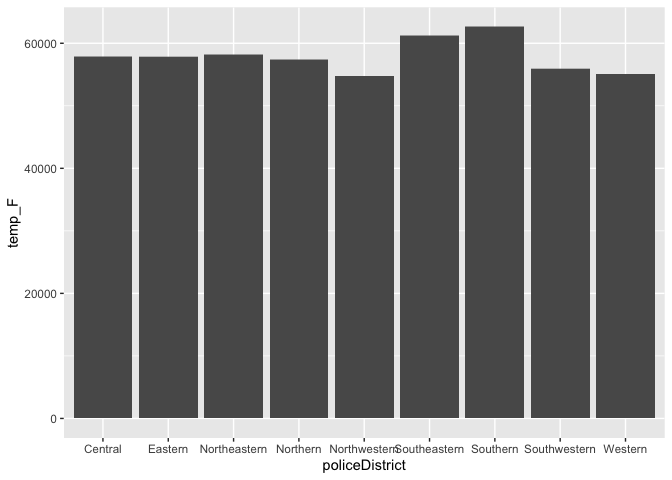
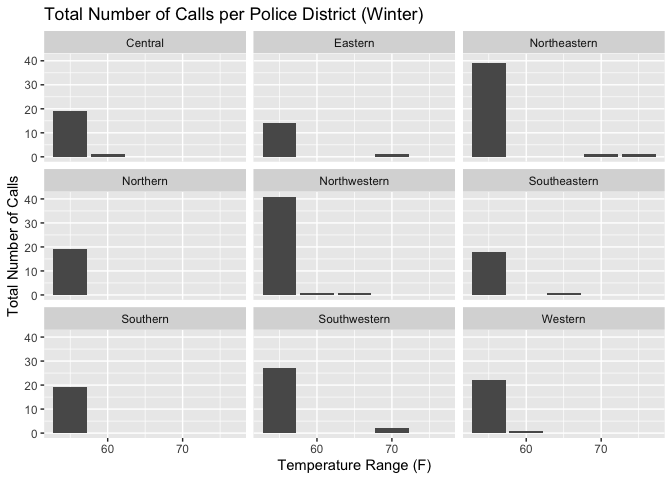
11/04/2024- Split the graph for winter and non_winter.

diff --git a/README.md b/README.md
@@ -163,22 +163,6 @@ variable under treatment and no treatment.
 # groupBy policeDistrict
 
 #----------------------------------------------------------------------------------------------
-#df2 <- df2 %>%
-  #mutate(tempCatagories = ifelse(temp_F < 60, 55,
-                          #ifelse(temp_F >= 60 & temp_F < 65, 60,
-                          #ifelse(temp_F >= 65 & temp_F < 70, 65,
-                          #ifelse(temp_F >= 70 & temp_F < 75, 70,
-                          #ifelse(temp_F >= 75 & temp_F < 80, 75,
-                          #ifelse(temp_F >= 80 & temp_F < 85, 80,
-                          #ifelse(temp_F >= 85 & temp_F < 90, 85,
-                          #ifelse(temp_F >= 90 & temp_F < 95, 90,
-                          #ifelse(temp_F >= 95 & temp_F < 100, 95, 
-                          #100))))))))))
-
-#agg_df <- df2 %>%
-  #group_by(policeDistrict, tempCatagories) %>%
-  #summarise(avg_calls = mean(callscount, na.rm = TRUE), totalcalls = sum(callscount))
-
 df2 <- df2 %>%
   mutate(tempCatagories = ifelse(temp_F < 60, 55,
                           ifelse(temp_F >= 60 & temp_F < 65, 60,
@@ -191,7 +175,13 @@ df2 <- df2 %>%
                           ifelse(temp_F >= 95 & temp_F < 100, 95, 
                           100))))))))))
 
-avg_df <- df2 %>%
+# for winter months
+df2 <- df2 %>%
+  mutate(winter_bin = ifelse(month > 2 & month < 11, 0, 1))
+         
+# for winter
+winter_df <- df2 %>%
+  filter(winter_bin == 1) %>%
   group_by(policeDistrict, tempCatagories) %>%
   summarise(avg_calls = mean(callscount, na.rm = TRUE))
 ```
@@ -200,31 +190,185 @@ avg_df <- df2 %>%
     the `.groups` argument.
 
 ``` r
-# Step 2: Create the scatter plot
-#ggplot(agg_df, aes(x = tempCatagories, y = avg_calls, color = policeDistrict)) + 
-  #geom_point(size = 2) + 
-  #geom_smooth(method = "lm", se = FALSE) +
-  #labs(title = "Average Number of Calls vs Temperature (F) by Police District",
-       #x = "Temperature Range (F)", 
-       #y = "Average Number of Calls")
+# for non winter
+non_winter_df <- df2 %>%
+  filter(winter_bin == 0) %>%
+  group_by(policeDistrict, tempCatagories) %>%
+  summarise(avg_calls = mean(callscount, na.rm = TRUE))
+```
 
-# Step 2: Create the scatter plot
-ggplot(avg_df, aes(x = tempCatagories, y = avg_calls, color = policeDistrict)) + 
+    `summarise()` has grouped output by 'policeDistrict'. You can override using
+    the `.groups` argument.
+
+``` r
+# Scatter plot -winter
+ggplot(winter_df, aes(x = tempCatagories, y = avg_calls, color = policeDistrict)) + 
   geom_point(size = 2) + 
-  geom_smooth(method = "lm", se = FALSE) +
-  labs(title = "Average Number of Calls vs Temperature (F) by Police District",
+  geom_smooth(se = FALSE) +
+  labs(title = "Average Number of Calls vs Temperature (F) by Police District (Winter)",
        x = "Temperature Range (F)", 
        y = "Average Number of Calls")
 ```
 
-    `geom_smooth()` using formula = 'y ~ x'
+    `geom_smooth()` using method = 'loess' and formula = 'y ~ x'
+
+    Warning in simpleLoess(y, x, w, span, degree = degree, parametric = parametric,
+    : span too small.  fewer data values than degrees of freedom.
+
+    Warning in simpleLoess(y, x, w, span, degree = degree, parametric = parametric,
+    : pseudoinverse used at 54.9
+
+    Warning in simpleLoess(y, x, w, span, degree = degree, parametric = parametric,
+    : neighborhood radius 10.1
+
+    Warning in simpleLoess(y, x, w, span, degree = degree, parametric = parametric,
+    : reciprocal condition number 0
+
+    Warning in simpleLoess(y, x, w, span, degree = degree, parametric = parametric,
+    : There are other near singularities as well. 102.01
+
+    Warning in simpleLoess(y, x, w, span, degree = degree, parametric = parametric,
+    : span too small.  fewer data values than degrees of freedom.
+
+    Warning in simpleLoess(y, x, w, span, degree = degree, parametric = parametric,
+    : pseudoinverse used at 54.9
+
+    Warning in simpleLoess(y, x, w, span, degree = degree, parametric = parametric,
+    : neighborhood radius 10.1
+
+    Warning in simpleLoess(y, x, w, span, degree = degree, parametric = parametric,
+    : reciprocal condition number 0
+
+    Warning in simpleLoess(y, x, w, span, degree = degree, parametric = parametric,
+    : There are other near singularities as well. 102.01
+
+    Warning in simpleLoess(y, x, w, span, degree = degree, parametric = parametric,
+    : span too small.  fewer data values than degrees of freedom.
+
+    Warning in simpleLoess(y, x, w, span, degree = degree, parametric = parametric,
+    : pseudoinverse used at 54.9
+
+    Warning in simpleLoess(y, x, w, span, degree = degree, parametric = parametric,
+    : neighborhood radius 10.1
+
+    Warning in simpleLoess(y, x, w, span, degree = degree, parametric = parametric,
+    : reciprocal condition number 0
+
+    Warning in simpleLoess(y, x, w, span, degree = degree, parametric = parametric,
+    : There are other near singularities as well. 102.01
+
+    Warning in simpleLoess(y, x, w, span, degree = degree, parametric = parametric,
+    : span too small.  fewer data values than degrees of freedom.
+
+    Warning in simpleLoess(y, x, w, span, degree = degree, parametric = parametric,
+    : pseudoinverse used at 54.9
+
+    Warning in simpleLoess(y, x, w, span, degree = degree, parametric = parametric,
+    : neighborhood radius 10.1
+
+    Warning in simpleLoess(y, x, w, span, degree = degree, parametric = parametric,
+    : reciprocal condition number 0
+
+    Warning in simpleLoess(y, x, w, span, degree = degree, parametric = parametric,
+    : There are other near singularities as well. 102.01
+
+    Warning in simpleLoess(y, x, w, span, degree = degree, parametric = parametric,
+    : span too small.  fewer data values than degrees of freedom.
+
+    Warning in simpleLoess(y, x, w, span, degree = degree, parametric = parametric,
+    : pseudoinverse used at 54.9
+
+    Warning in simpleLoess(y, x, w, span, degree = degree, parametric = parametric,
+    : neighborhood radius 10.1
+
+    Warning in simpleLoess(y, x, w, span, degree = degree, parametric = parametric,
+    : reciprocal condition number 0
+
+    Warning in simpleLoess(y, x, w, span, degree = degree, parametric = parametric,
+    : There are other near singularities as well. 102.01
+
+    Warning in simpleLoess(y, x, w, span, degree = degree, parametric = parametric,
+    : span too small.  fewer data values than degrees of freedom.
+
+    Warning in simpleLoess(y, x, w, span, degree = degree, parametric = parametric,
+    : pseudoinverse used at 54.9
+
+    Warning in simpleLoess(y, x, w, span, degree = degree, parametric = parametric,
+    : neighborhood radius 10.1
+
+    Warning in simpleLoess(y, x, w, span, degree = degree, parametric = parametric,
+    : reciprocal condition number 0
+
+    Warning in simpleLoess(y, x, w, span, degree = degree, parametric = parametric,
+    : There are other near singularities as well. 102.01
+
+    Warning in simpleLoess(y, x, w, span, degree = degree, parametric = parametric,
+    : span too small.  fewer data values than degrees of freedom.
+
+    Warning in simpleLoess(y, x, w, span, degree = degree, parametric = parametric,
+    : pseudoinverse used at 54.925
+
+    Warning in simpleLoess(y, x, w, span, degree = degree, parametric = parametric,
+    : neighborhood radius 10.075
+
+    Warning in simpleLoess(y, x, w, span, degree = degree, parametric = parametric,
+    : reciprocal condition number 0
+
+    Warning in simpleLoess(y, x, w, span, degree = degree, parametric = parametric,
+    : There are other near singularities as well. 101.51
+
+    Warning in simpleLoess(y, x, w, span, degree = degree, parametric = parametric,
+    : span too small.  fewer data values than degrees of freedom.
+
+    Warning in simpleLoess(y, x, w, span, degree = degree, parametric = parametric,
+    : pseudoinverse used at 54.9
+
+    Warning in simpleLoess(y, x, w, span, degree = degree, parametric = parametric,
+    : neighborhood radius 10.1
+
+    Warning in simpleLoess(y, x, w, span, degree = degree, parametric = parametric,
+    : reciprocal condition number 0
+
+    Warning in simpleLoess(y, x, w, span, degree = degree, parametric = parametric,
+    : There are other near singularities as well. 102.01
+
+    Warning in simpleLoess(y, x, w, span, degree = degree, parametric = parametric,
+    : span too small.  fewer data values than degrees of freedom.
+
+    Warning in simpleLoess(y, x, w, span, degree = degree, parametric = parametric,
+    : pseudoinverse used at 54.9
+
+    Warning in simpleLoess(y, x, w, span, degree = degree, parametric = parametric,
+    : neighborhood radius 10.1
+
+    Warning in simpleLoess(y, x, w, span, degree = degree, parametric = parametric,
+    : reciprocal condition number 0
+
+    Warning in simpleLoess(y, x, w, span, degree = degree, parametric = parametric,
+    : There are other near singularities as well. 102.01
 
 ![](README_files/figure-commonmark/unnamed-chunk-6-1.png)
 
 ``` r
-#-------#
+# Scatter plot -non_winter
+ggplot(non_winter_df, aes(x = tempCatagories, y = avg_calls, color = policeDistrict)) + 
+  geom_point(size = 2) + 
+  geom_smooth(se = FALSE) +
+  labs(title = "Average Number of Calls vs Temperature (F) by Police District (Non Winter)",
+       x = "Temperature Range (F)", 
+       y = "Average Number of Calls")
+```
 
-df_summary <- df2 %>%
+    `geom_smooth()` using method = 'loess' and formula = 'y ~ x'
+
+![](README_files/figure-commonmark/unnamed-chunk-6-2.png)
+
+``` r
+#----------------------------------------------------------------------------------------------
+
+# for winter
+df_winter <- df2 %>%
+  filter(winter_bin == 1) %>%
   group_by(policeDistrict, tempCatagories) %>%
   summarize(total_callscount = sum(callscount))
 ```
@@ -233,12 +377,39 @@ df_summary <- df2 %>%
     the `.groups` argument.
 
 ``` r
-ggplot(df_summary, aes(x = tempCatagories, y = total_callscount)) + 
-    geom_bar(stat="identity") +
-    facet_wrap((~ as.character(policeDistrict)))
+# for non winter
+df_non_winter <- df2 %>%
+  filter(winter_bin == 0) %>%
+  group_by(policeDistrict, tempCatagories) %>%
+  summarize(total_callscount = sum(callscount))
 ```
 
-![](README_files/figure-commonmark/unnamed-chunk-6-2.png)
+    `summarise()` has grouped output by 'policeDistrict'. You can override using
+    the `.groups` argument.
+
+``` r
+# Grouped bar graph -winter
+ggplot(df_winter, aes(x = tempCatagories, y = total_callscount)) + 
+    geom_bar(stat="identity") +
+    facet_wrap((~ as.character(policeDistrict))) +
+    labs(title = "Total Number of Calls per Police District (Winter)",
+       x = "Temperature Range (F)", 
+       y = "Total Number of Calls")
+```
+
+![](README_files/figure-commonmark/unnamed-chunk-6-3.png)
+
+``` r
+# Grouped bar graph - non_winter
+ggplot(df_non_winter, aes(x = tempCatagories, y = total_callscount)) + 
+    geom_bar(stat="identity") +
+    facet_wrap((~ as.character(policeDistrict))) +
+    labs(title = "Total Number of Calls per Police District (Non Winter)",
+       x = "Temperature Range (F)", 
+       y = "Total Number of Calls")
+```
+
+![](README_files/figure-commonmark/unnamed-chunk-6-4.png)
 
   
   
@@ -387,6 +558,9 @@ df3 <- df3 %>%
 
 #dayOfTheWeek Holiday Results
 
+
+# split these into 2 for winter non winter months
+
 model2<-felm(call_bin ~ temp_over_100 + temp_95_100 + temp_90_95 + temp_85_90 + temp_80_85 + temp_75_80 + temp_70_75 + temp_65_70 + temp_60_65 + temp_under_60 + holiday_bin + holiday_bin:daytime + daytime + temp_over_100:daytime + temp_95_100: daytime + temp_90_95: daytime + temp_85_90: daytime + temp_80_85: daytime + temp_75_80: daytime + temp_70_75: daytime + temp_65_70: daytime + temp_60_65: daytime + temp_under_60| 
                policeDistrict + year + month + dow, data=df3)
 
@@ -452,16 +626,16 @@ summary(model3)
 
     Coefficients:
                             Estimate Std. Error t value Pr(>|t|)  
-    temp_over_100                NaN         NA     NaN      NaN  
-    temp_95_100           -0.0072473  0.0228199  -0.318   0.7508  
-    temp_90_95            -0.0338993  0.0223758  -1.515   0.1298  
-    temp_85_90            -0.0079700  0.0221024  -0.361   0.7184  
-    temp_80_85            -0.0643887  0.0566932  -1.136   0.2561  
-    temp_75_80            -0.0243659  0.0255941  -0.952   0.3411  
-    temp_70_75             0.0100497  0.0251673   0.399   0.6897  
-    temp_65_70            -0.0133262  0.0247966  -0.537   0.5910  
-    temp_60_65            -0.0128727  0.0248730  -0.518   0.6048  
-    temp_under_60         -0.0205327  0.0199897  -1.027   0.3044  
+    temp_over_100          0.0072473  0.0228199   0.318   0.7508  
+    temp_95_100                  NaN         NA     NaN      NaN  
+    temp_90_95            -0.0266519  0.0183377  -1.453   0.1462  
+    temp_85_90            -0.0007227  0.0179483  -0.040   0.9679  
+    temp_80_85            -0.0571413  0.0552775  -1.034   0.3013  
+    temp_75_80            -0.0171186  0.0222374  -0.770   0.4414  
+    temp_70_75             0.0172970  0.0217086   0.797   0.4256  
+    temp_65_70            -0.0060789  0.0213149  -0.285   0.7755  
+    temp_60_65            -0.0056254  0.0213336  -0.264   0.7920  
+    temp_under_60         -0.0132854  0.0153528  -0.865   0.3869  
     daytime               -0.0228457  0.0093298  -2.449   0.0144 *
     holiday_bin            0.0122095  0.0140028   0.872   0.3833  
     daytime:holiday_bin   -0.0083655  0.0204815  -0.408   0.6830  
